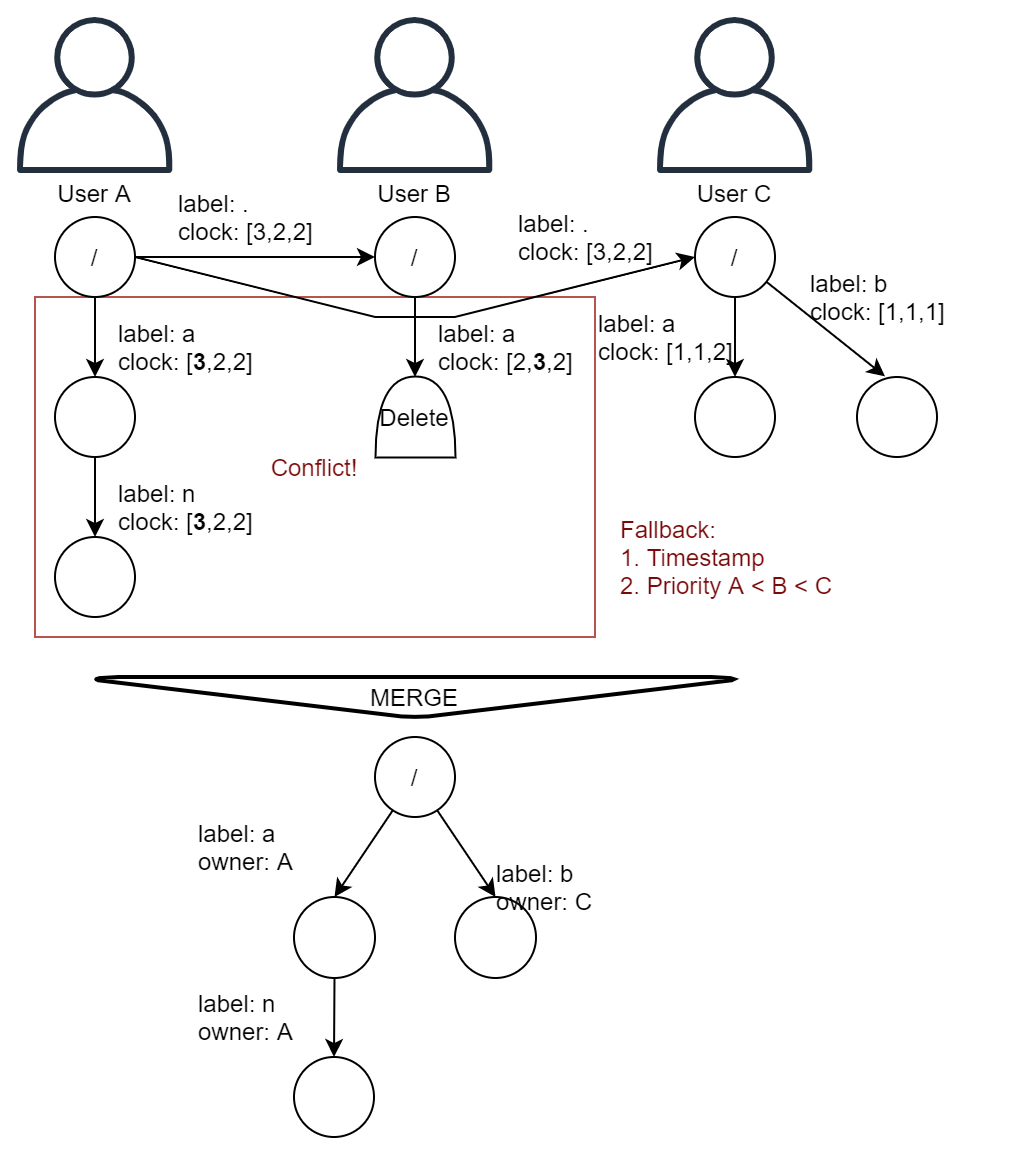
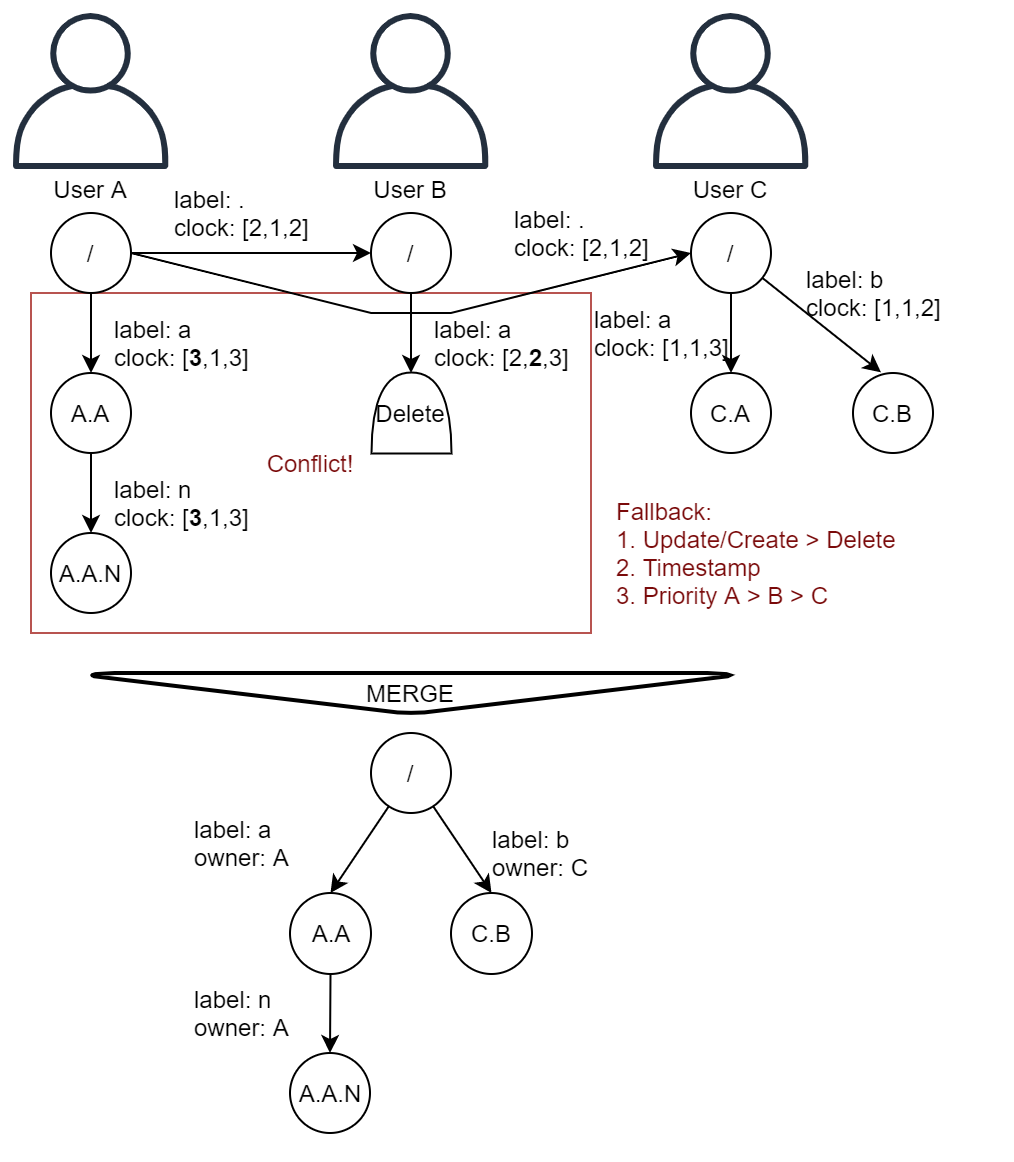
crdt update

diff --git a/docs/crdt.md b/docs/crdt.md
@@ -4,8 +4,6 @@ With an offline-first cooperative application it is always possible to cause con
 This structure represents a filesystem-like view on a graph, meaning it forms a tree.
 This concept sketches a CRDT for a [Collaboration Space](https://github.com/fsteff/certacrypt/blob/master/docs/multiwriter.md), which at its root has an Access Control List (ACL) that defines a list of writers. Each writer has a root vertice that refers only to the data it has written, which is a subset of the space's graph.
 
-![CRDT Sketch](https://raw.githubusercontent.com/fsteff/certacrypt/master/docs/crdt.png)
-
 ## Vector Clock
 
 For tracking the partial order of events and causality violations, a [vector-clock](https://en.wikipedia.org/wiki/Vector_clock) based approach is used. As source for the clock the Hyperobjects transaction ID is used, which itself is the transaction marker index in the append-only-log.
@@ -13,11 +11,29 @@ This means the clocks of the writers are not synchronized at all and do not enco
 
 This vector clock is stored with each edge and defines the state of the vector clock when this edge was written.
 When a vertex is created, updated or deleted, all vertices *up* to the root vertex are updated to store the latest transaction ID to their edges. This assures that changes *lower* down the tree don't get lost if an other writer makes a concurrent change to one of the vertices on that path.
-**TODO:** define how conflicts are detected (concurrent clocks).
+
+The following example visualizes how concurrent changes are merged and conflicts are detected:
+Let there be a set of 3 writers (A,B,C) that start with transaction ID 1.
+Each starts with a single root vertex for the merged space. The root vertex of A has an edge to B and C labeled as '.', meaning these are to be merged.
+Then the following changes are made:
+
+ - C adds a vertex with content 'C.B' and then an edge labeled 'b'. The vector clock written to the edge therefore is (1,1,2).
+ - C adds a vertex with content 'C.A' and then an edge labeled 'a'. The vector clock written to that edge is (1,1,3).
+ - The changes are synchronized to A and B.
+   - The shared view is now consistent between A,B and C.
+ - A adds a vertex with content 'A.A' and then and edge labeled 'a'. The vector clock written to that edge is (2,1,3).
+ - A synchronizes its changes with C. Since the update by A happened after the one by C it is clear that the vertex with 'C.A' is overwritten by the one with 'A.A'.
+ - B adds a thombstone and labels it 'a'. The vector clock written to that edge is (1,2,3)
+ - A creates a vertex 'A.A.N'. It adds an edge from 'A.A' to 'A.A.N' and labels it 'n' and updates all edges *up* to the root vertex. The vector clock at both edges is (3,1,3).
+ - A and B synchronize their changes with C. Since both changed the edge labeled 'a' the two vector clocks show a lower value for each other: (3,1,3) vs (2,2,3) (!). Therefore a conflict is detected that has to be resolved using a  set of rules that ensures determinism.
+   - The rules state that deletes have a lower priority than updates, the changes of A outweigh the ones of C.
+
+![CRDT Sketch](https://raw.githubusercontent.com/fsteff/certacrypt/master/docs/crdt.png)
 
 ## Conflict Resolution
 
-If there are concurrent writes that cannot be resolved using the causual order, there are two fallback strategies:
+If there are concurrent writes that cannot be resolved using the causual order, there are three fallback strategies:
 
-- The transaction's timestamp (means trusting the writer's CPU clock)
+- New and updated edges have a higher priority than ones that point to a tombstone.
+- Comparison of the transaction's timestamp (means trusting the writer's CPU clock)
 - The order in which the writers are written to the vector clock defines a priority as a last fallback if even the timestamps are equal.
